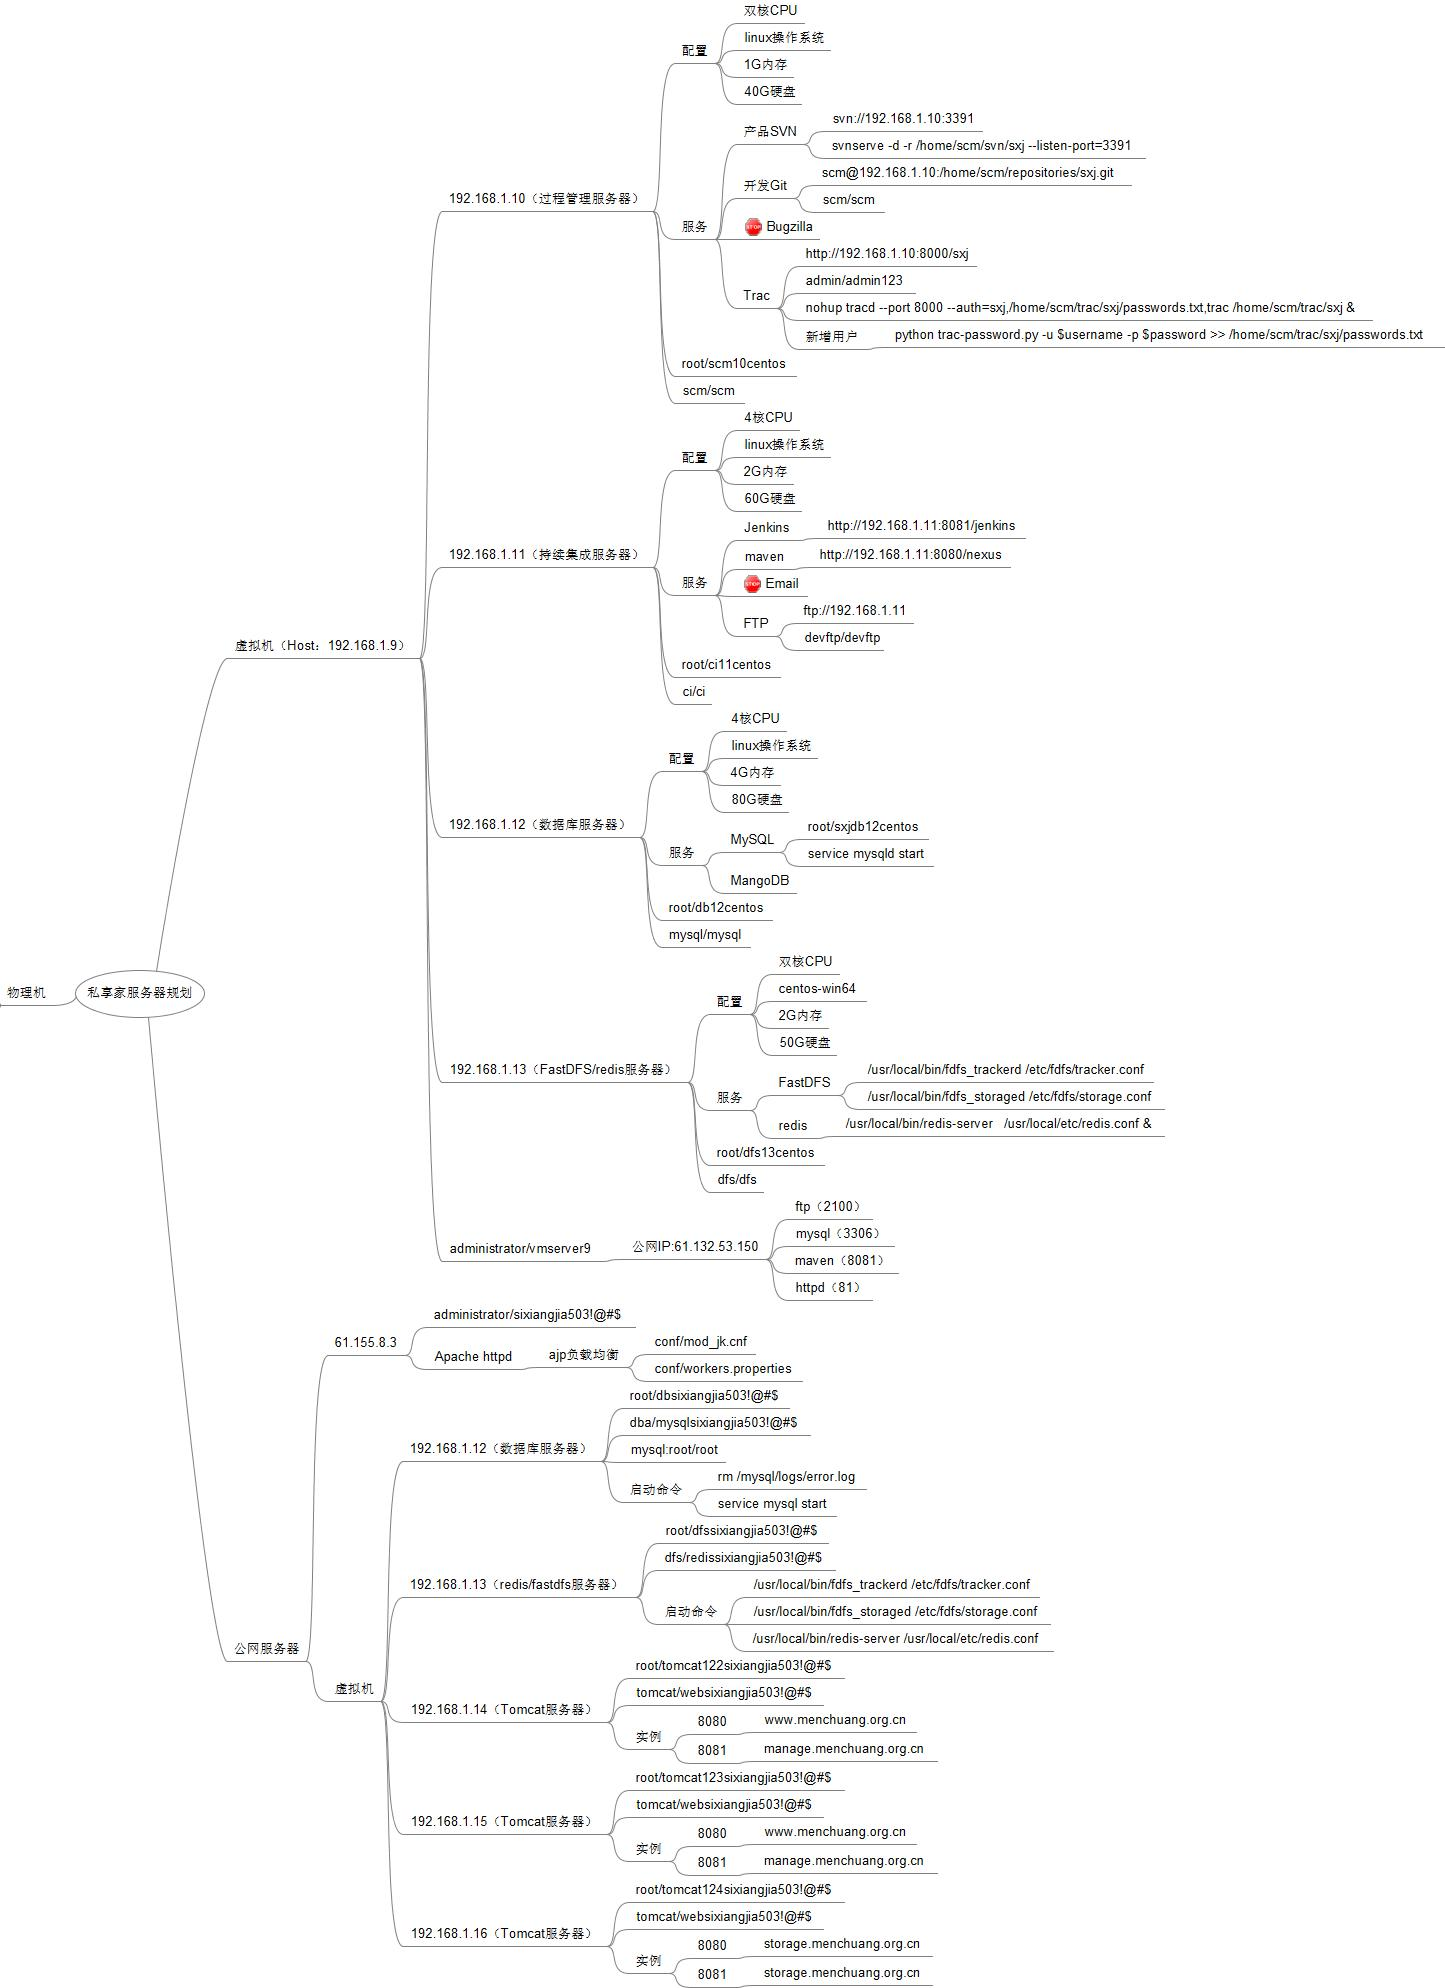
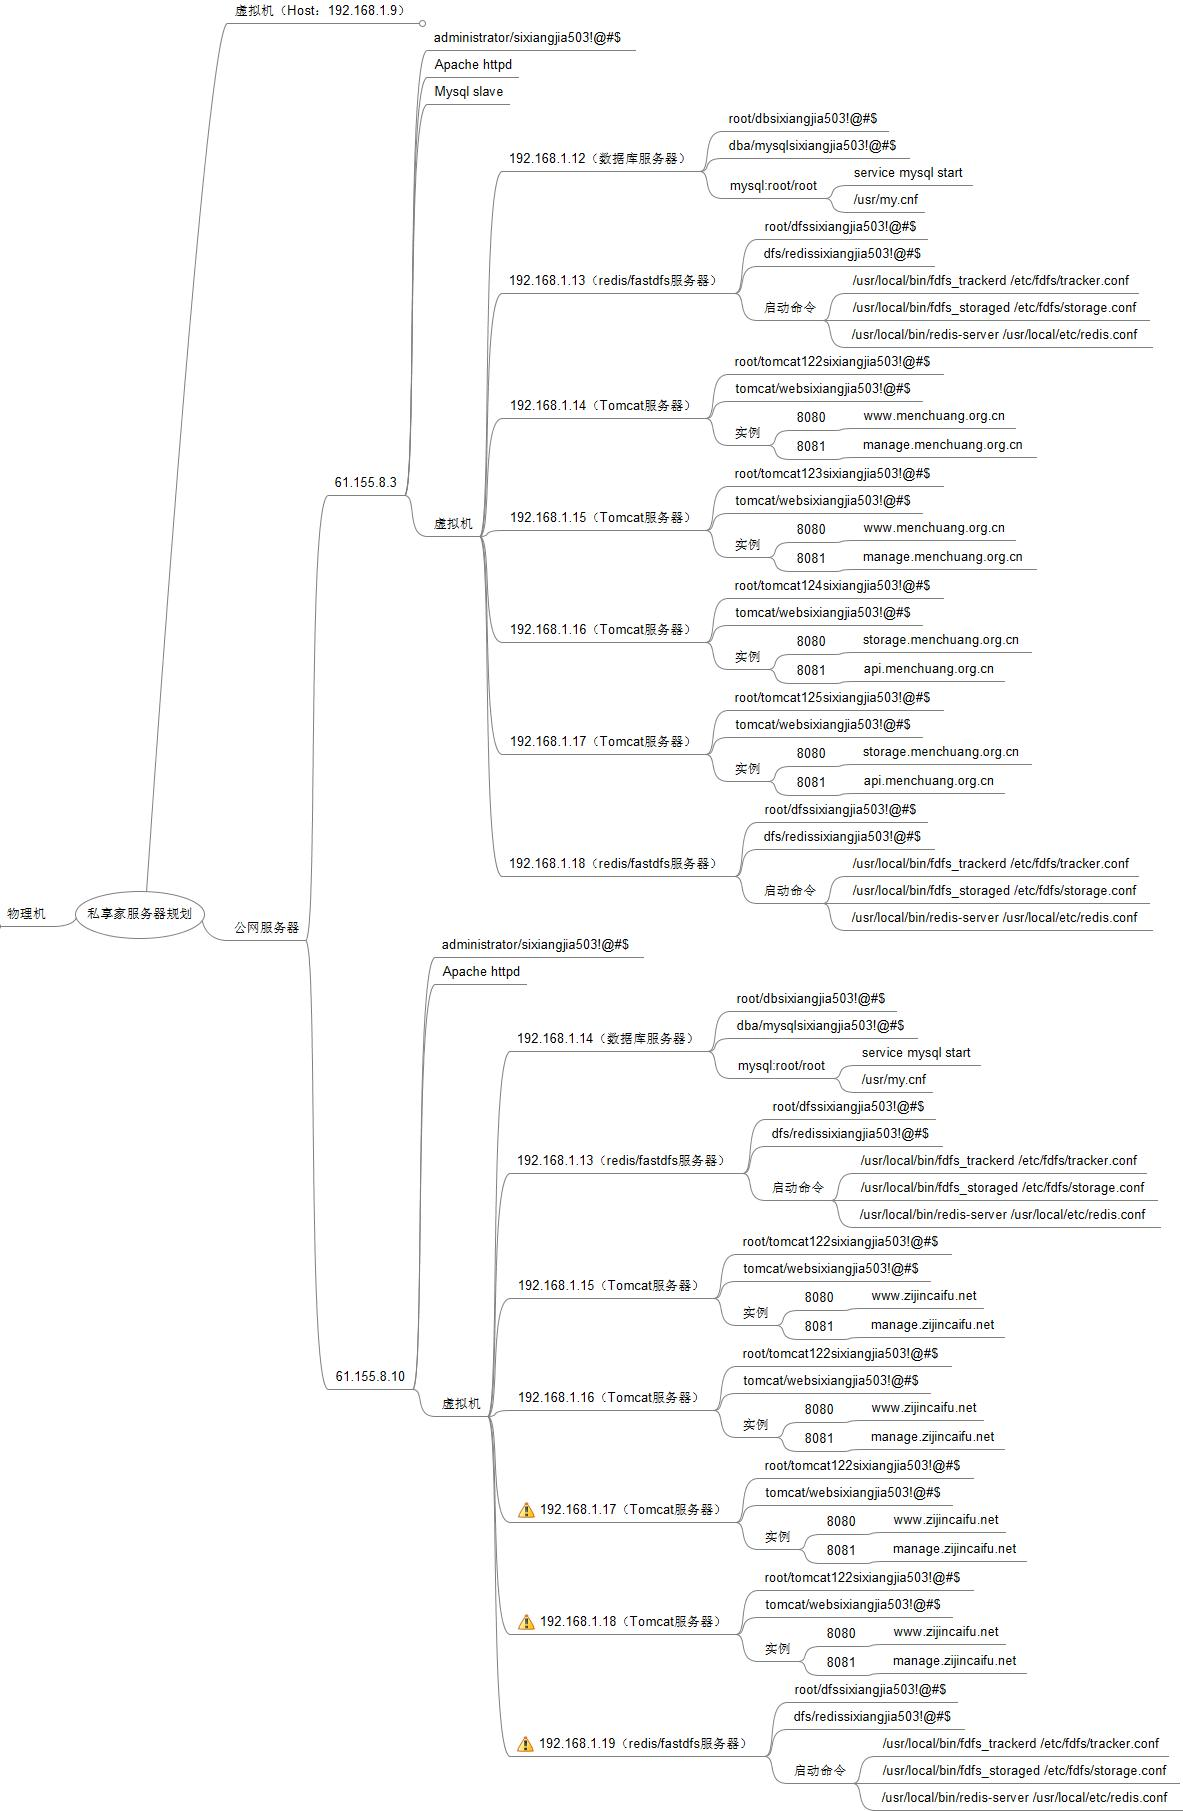
Signed-off-by: redtroy <redtroy@sxj.com>

diff --git a/技术资料/架构设计/私享家应用架构重构计划.mm b/技术资料/架构设计/私享家应用架构重构计划.mm
@@ -2,23 +2,43 @@
 <!-- To view this file, download free mind mapping software FreeMind from http://freemind.sourceforge.net -->
 <node COLOR="#ff0000" CREATED="1418618539698" ID="ID_59565195" MODIFIED="1418722280920" TEXT="&#x79c1;&#x4eab;&#x5bb6;&#x5e94;&#x7528;&#x67b6;&#x6784;&#x91cd;&#x6784;&#x8ba1;&#x5212;">
 <node CREATED="1418618583968" ID="ID_1334721903" MODIFIED="1418618588659" POSITION="right" TEXT="&#x67b6;&#x6784;">
-<node CREATED="1418618558425" ID="ID_1204885102" MODIFIED="1418618567508" TEXT="&#x8bfb;&#x5199;&#x5206;&#x79bb;&#x6846;&#x67b6;"/>
+<node CREATED="1418618558425" ID="ID_1204885102" MODIFIED="1421286165791" TEXT="&#x8bfb;&#x5199;&#x5206;&#x79bb;&#x6846;&#x67b6;">
+<icon BUILTIN="button_ok"/>
+</node>
 <node CREATED="1418618567728" ID="ID_1285722769" MODIFIED="1418618578369" TEXT="CSRF/XSS&#x9632;&#x5fa1;&#x6846;&#x67b6;"/>
 <node CREATED="1418618596479" ID="ID_1828993265" MODIFIED="1418618612331" TEXT="&#x5206;&#x5e03;&#x5f0f;&#x591a;&#x7ea7;&#x7f13;&#x5b58;"/>
 <node CREATED="1418618612890" ID="ID_1727431440" MODIFIED="1418618630161" TEXT="&#x6279;&#x5904;&#x7406;">
 <node CREATED="1418619302213" ID="ID_1760865467" MODIFIED="1418619305778" TEXT="Spring Batch"/>
+<node CREATED="1421286145531" ID="ID_1363725289" MODIFIED="1421286323961" TEXT="MySQL Load Data">
+<icon BUILTIN="button_ok"/>
+</node>
 </node>
 <node CREATED="1418619286259" ID="ID_26707723" MODIFIED="1418619289878" TEXT="&#x62a5;&#x8868;&#x5904;&#x7406;">
 <node CREATED="1418619293295" ID="ID_524268434" MODIFIED="1418619299157" TEXT="Eclipse BIRT"/>
 </node>
 <node CREATED="1418619858986" ID="ID_1664031174" MODIFIED="1418619862087" TEXT="&#x72b6;&#x6001;&#x673a;">
-<node CREATED="1418619863376" ID="ID_124994330" MODIFIED="1418619866417" TEXT="squirrel"/>
+<node CREATED="1418619863376" ID="ID_124994330" MODIFIED="1421286180151" TEXT="statemachine.core"/>
 </node>
-<node CREATED="1418620301373" ID="ID_812019440" MODIFIED="1418620305434" TEXT="workflow"/>
+<node CREATED="1418620301373" ID="ID_812019440" MODIFIED="1418620305434" TEXT="workflow">
+<node CREATED="1421286197620" ID="ID_1094585096" MODIFIED="1421286216081" TEXT="&#x5408;&#x540c;&#x7ba1;&#x7406;&#x6d41;&#x7a0b;">
+<node CREATED="1421286220290" ID="ID_780386745" MODIFIED="1421286228461" TEXT="&#x5408;&#x540c;&#x4f1a;&#x7b7e;"/>
+<node CREATED="1421286231000" ID="ID_931465176" MODIFIED="1421286234931" TEXT="&#x5ba1;&#x6838;&#x6d41;&#x7a0b;"/>
+</node>
+</node>
 <node CREATED="1418625222253" ID="ID_1052733391" MODIFIED="1418625226904" TEXT="&#x65e5;&#x5fd7;&#x7cfb;&#x7edf;">
 <node CREATED="1418625229723" ID="ID_914018663" MODIFIED="1418625235364" TEXT="&#x65e5;&#x5fd7;&#x9694;&#x79bb;"/>
 <node CREATED="1418625235953" ID="ID_1652689223" MODIFIED="1418625242174" TEXT="&#x65e5;&#x5fd7;&#x6536;&#x96c6;"/>
 <node CREATED="1418625247323" ID="ID_674571664" MODIFIED="1418625251144" TEXT="&#x65e5;&#x5fd7;&#x7edf;&#x8ba1;"/>
+<node CREATED="1421286243480" ID="ID_1739782588" MODIFIED="1421286251301" TEXT="&#x9009;&#x578b;&#x8def;&#x7ebf;">
+<node CREATED="1421286252811" ID="ID_474641099" MODIFIED="1421286255701" TEXT="Logstash"/>
+<node CREATED="1421286256860" ID="ID_111115348" MODIFIED="1421286270091" TEXT="redis Queue"/>
+<node CREATED="1421286270581" ID="ID_1864715946" MODIFIED="1421286273141" TEXT="Storm">
+<node CREATED="1421286297730" ID="ID_1551227529" MODIFIED="1421286305341" TEXT="&#x65e5;&#x5fd7;&#x5206;&#x6790;"/>
+<node CREATED="1421286305600" ID="ID_1523738805" MODIFIED="1421286308271" TEXT="&#x65e5;&#x5fd7;&#x5904;&#x7406;"/>
+</node>
+<node CREATED="1421286273730" ID="ID_1426471321" MODIFIED="1421286279731" TEXT="Cassandra"/>
+<node CREATED="1421286280350" ID="ID_1975953893" MODIFIED="1421286286901" TEXT="Elastic Search"/>
+</node>
 </node>
 </node>
 <node CREATED="1418618633390" ID="ID_1368115980" MODIFIED="1418618635571" POSITION="right" TEXT="&#x5e94;&#x7528;">

diff --git a/开发服务器（虚拟机）.mm b/开发服务器（虚拟机）.mm
@@ -1,0 +1,28 @@
+<map version="1.0.1">
+<!-- To view this file, download free mind mapping software FreeMind from http://freemind.sourceforge.net -->
+<node CREATED="1421298540227" ID="ID_1149341390" MODIFIED="1421298561037" TEXT="&#x5f00;&#x53d1;&#x670d;&#x52a1;&#x5668;&#xff08;&#x865a;&#x62df;&#x673a;&#xff09;">
+<node CREATED="1421298771309" ID="ID_315719767" MODIFIED="1421298774810" POSITION="right" TEXT="&#x8d26;&#x6237;">
+<node CREATED="1421298777139" ID="ID_1463607094" MODIFIED="1421298780800" TEXT="redtroy/redtroy"/>
+<node CREATED="1421298781259" ID="ID_299900304" MODIFIED="1421298784110" TEXT="root/centos7"/>
+</node>
+<node CREATED="1421298786799" ID="ID_1385406299" MODIFIED="1421298791210" POSITION="right" TEXT="&#x670d;&#x52a1;">
+<node CREATED="1421300753112" ID="ID_298716388" MODIFIED="1421300757859" TEXT="&#x4ee3;&#x7801;&#x5e93;">
+<node CREATED="1421298577188" ID="ID_1326168429" MODIFIED="1421305073163" TEXT="gitosis"/>
+<node CREATED="1421298579748" ID="ID_1443387691" MODIFIED="1421305079473" TEXT="subversion">
+<node CREATED="1421305082512" ID="ID_1179481149" MODIFIED="1421305155054" TEXT="su svnserve -d -r /codebase/svn-repository [--listen-port=3390]"/>
+</node>
+</node>
+<node CREATED="1421300758807" ID="ID_1157739529" MODIFIED="1421300764139" TEXT="&#x5f00;&#x53d1;&#x7ba1;&#x7406;">
+<node CREATED="1421298562898" ID="ID_1328050708" MODIFIED="1421298565659" TEXT="maven"/>
+<node CREATED="1421298567458" ID="ID_464129717" MODIFIED="1421298576579" TEXT="jekins"/>
+<node CREATED="1421298583378" ID="ID_1075182006" MODIFIED="1421298586019" TEXT="sonar"/>
+<node CREATED="1421298597438" ID="ID_1621958811" MODIFIED="1421298598619" TEXT="trac"/>
+</node>
+<node CREATED="1421298602888" ID="ID_469684077" MODIFIED="1421298604509" TEXT="mysql">
+<node CREATED="1421300362903" ID="ID_1557969012" MODIFIED="1421300372774" TEXT="/usr/my.cnf"/>
+<node CREATED="1421300373513" ID="ID_804178078" MODIFIED="1421300377984" TEXT="service mysql start"/>
+<node CREATED="1421300378193" ID="ID_1476849353" MODIFIED="1421300405514" TEXT="mysqladmin shutdown --socket=/tmp/mysql.sock"/>
+</node>
+</node>
+</node>
+</map>

diff --git a/技术资料/私享家服务器规划.mm b/技术资料/私享家服务器规划.mm
@@ -14,7 +14,7 @@
 <node CREATED="1405928049146" ID="ID_1273269226" MODIFIED="1405928052314" TEXT="Ngnix"/>
 </node>
 </node>
-<node CREATED="1405928079442" FOLDED="true" ID="ID_365620528" MODIFIED="1419595347063" POSITION="right" TEXT="&#x865a;&#x62df;&#x673a;&#xff08;Host&#xff1a;192.168.1.9&#xff09;">
+<node CREATED="1405928079442" FOLDED="true" ID="ID_365620528" MODIFIED="1420355535070" POSITION="right" TEXT="&#x865a;&#x62df;&#x673a;&#xff08;Host&#xff1a;192.168.1.9&#xff09;">
 <node CREATED="1405927537773" ID="ID_981465228" MODIFIED="1405928220820" TEXT="192.168.1.10&#xff08;&#x8fc7;&#x7a0b;&#x7ba1;&#x7406;&#x670d;&#x52a1;&#x5668;&#xff09;">
 <node CREATED="1405928222652" ID="ID_1680642191" MODIFIED="1406684191990" TEXT="&#x914d;&#x7f6e;">
 <node CREATED="1405928227886" ID="ID_903036643" MODIFIED="1405928237699" TEXT="&#x53cc;&#x6838;CPU"/>
@@ -300,7 +300,7 @@
 </node>
 </node>
 </node>
-<node CREATED="1409726445498" ID="ID_1551821391" MODIFIED="1420350604719" TEXT="192.168.1.18&#xff08;redis/fastdfs&#x670d;&#x52a1;&#x5668;&#xff09;">
+<node CREATED="1409726445498" ID="ID_1551821391" MODIFIED="1420355569574" TEXT="192.168.1.19&#xff08;redis/fastdfs&#x670d;&#x52a1;&#x5668;&#xff09;">
 <icon BUILTIN="messagebox_warning"/>
 <node CREATED="1409726465629" ID="ID_146605956" MODIFIED="1409726475349" TEXT="root/dfssixiangjia503!@#$"/>
 <node CREATED="1409726475995" ID="ID_262833197" MODIFIED="1409732323461" TEXT="dfs/redissixiangjia503!@#$"/>
